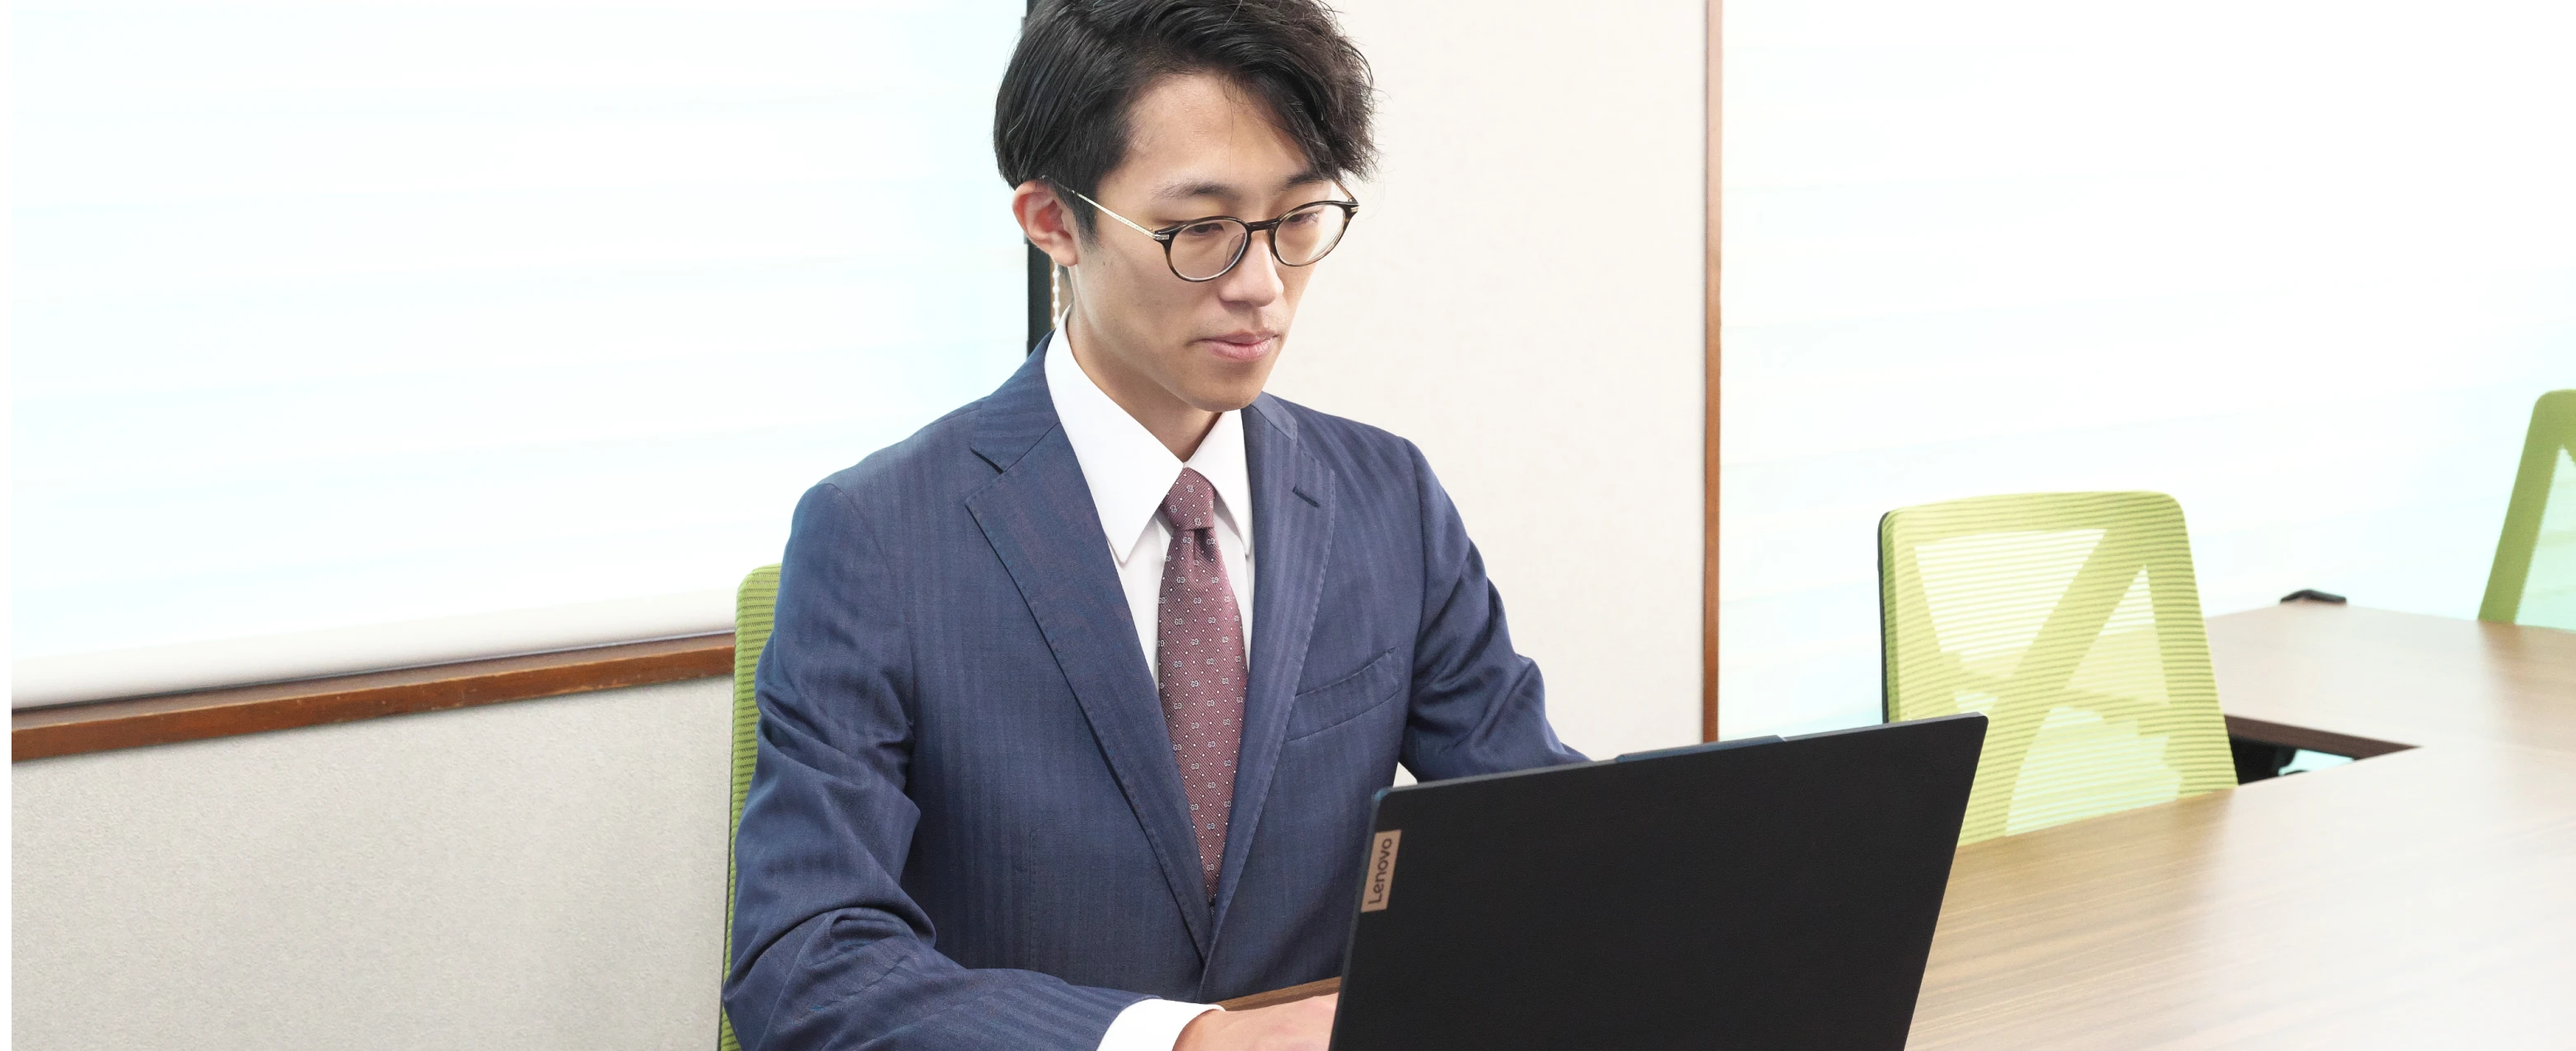
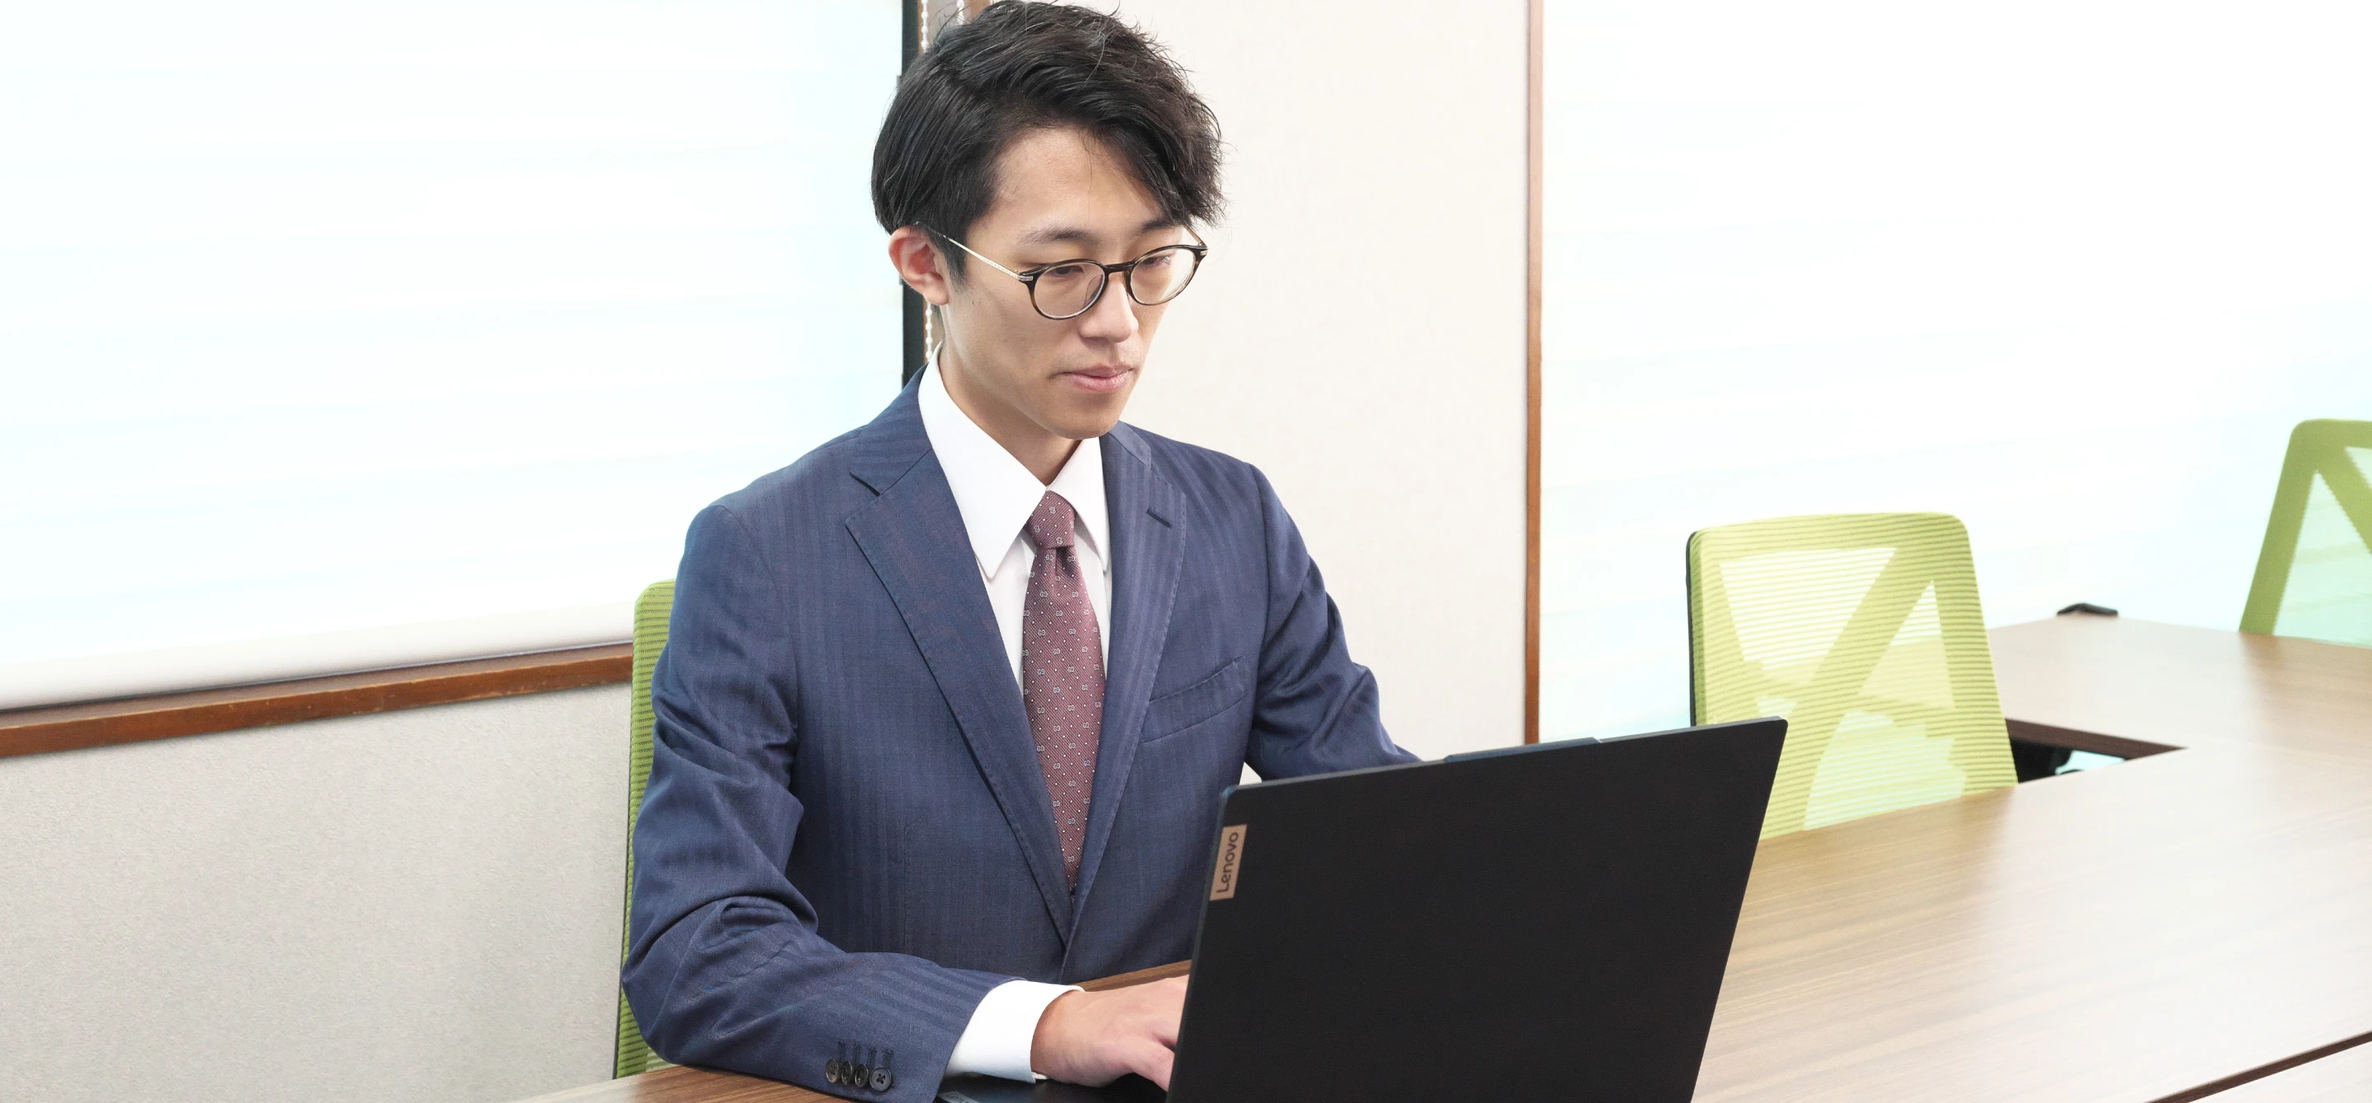
seo・リファクタリング

Changed region(s): [[0.0, 0.0, 1.0, 1.0], [0.9062, 0.9162, 1.0, 1.0]]

diff --git a/src/modules/Kv.tsx b/src/modules/Kv.tsx
@@ -13,7 +13,7 @@ import kvSpImg3 from '../../public/image/top/fv_3_sp.webp';
 import { Lato } from 'next/font/google';
 
 const lato = Lato({
-  weight: ['400', '700', '900'],
+  weight: ['400'],
   subsets: ['latin'],
   display: 'swap',
 });
@@ -26,15 +26,30 @@ export type KvSlide = {
 };
 
 export const KV_PC_SLIDES: KvSlide[] = [
-  { src: kvPcImg1, alt: 'スライド1', width: 3127, height: 1277 },
-  { src: kvPcImg2, alt: 'スライド2', width: 3127, height: 1277 },
-  { src: kvPcImg3, alt: 'スライド3', width: 3127, height: 1277 },
+  {
+    src: kvPcImg1,
+    alt: 'プログラミングを学生に教えている様子',
+    width: 3127,
+    height: 1277,
+  },
+  {
+    src: kvPcImg2,
+    alt: 'パソコンの画面を指さしながら、プログラミングを教えている様子',
+    width: 3127,
+    height: 1277,
+  },
+  {
+    src: kvPcImg3,
+    alt: 'パソコンを操作している様子',
+    width: 3127,
+    height: 1277,
+  },
 ];
 
 export const KV_SP_SLIDES: KvSlide[] = [
-  { src: kvSpImg1, alt: 'スライド1', width: 878, height: 1319 },
-  { src: kvSpImg2, alt: 'スライド2', width: 878, height: 1319 },
-  { src: kvSpImg3, alt: 'スライド3', width: 878, height: 1319 },
+  { src: kvSpImg1, alt: '', width: 878, height: 1319 },
+  { src: kvSpImg2, alt: '', width: 878, height: 1319 },
+  { src: kvSpImg3, alt: '', width: 878, height: 1319 },
 ];
 
 const SLIDE_INTERVAL_MS = 5000;
@@ -148,6 +163,10 @@ const sxStyles = {
     textAlign: 'left',
     color: '#fff',
     m: 0,
+    h1: {
+      display: 'flex',
+      flexDirection: 'column',
+    },
   },
   line1: {
     fontSize: 'clamp(18px, 2.26vw, 31px)',
@@ -156,6 +175,7 @@ const sxStyles = {
     fontFeatureSettings: '"palt"',
     letterSpacing: '0.03em',
     overflow: 'hidden',
+    display: 'inline-block',
   },
   line2: {
     fontSize: 'clamp(43px, 4.96vw, 68px)',
@@ -165,6 +185,7 @@ const sxStyles = {
     fontFeatureSettings: '"palt"',
     letterSpacing: '0.03em',
     overflow: 'hidden',
+    display: 'inline-block',
     '@media screen and (max-width:768px)': {
       mt: '6px',
     },
@@ -224,29 +245,32 @@ const sxStyles = {
 const KvMainCopy = () => {
   return (
     <Box sx={sxStyles.copyWrap}>
-      <Box component="h1" sx={sxStyles.textBlock}>
-        <Typography component="p" sx={sxStyles.line1}>
-          <Box
-            component="span"
-            sx={[sxStyles.copyLineText, sxStyles.copyLineText1]}
-          >
-            社会のコミュニケーションを
-          </Box>
-        </Typography>
-        <Typography component="p" sx={sxStyles.line2}>
-          <Box
-            component="span"
-            sx={[
-              sxStyles.copyLineText,
-              sxStyles.copyLineText2,
-              sxStyles.pcOnlyLine,
-            ]}
-          >
-            ITの力でもっと活発に
-          </Box>
+      <Box sx={sxStyles.textBlock}>
+        <Typography component="h1">
+          <Typography component="span" sx={sxStyles.line1}>
+            <Box
+              component="span"
+              sx={[sxStyles.copyLineText, sxStyles.copyLineText1]}
+            >
+              社会のコミュニケーションを
+            </Box>
+          </Typography>
+          <Typography component="span" sx={sxStyles.line2}>
+            <Box
+              component="span"
+              sx={[
+                sxStyles.copyLineText,
+                sxStyles.copyLineText2,
+                sxStyles.pcOnlyLine,
+              ]}
+            >
+              ITの力でもっと活発に
+            </Box>
+          </Typography>
           <Box
             component="span"
             sx={[sxStyles.copyLineMask, sxStyles.spOnlyLine]}
+            aria-hidden="true"
           >
             <Box
               component="span"
@@ -258,6 +282,7 @@ const KvMainCopy = () => {
           <Box
             component="span"
             sx={[sxStyles.copyLineMask, sxStyles.spOnlyLine]}
+            aria-hidden="true"
           >
             <Box
               component="span"

diff --git a/src/modules/Business.tsx b/src/modules/Business.tsx
@@ -11,7 +11,7 @@ import FadeInOnView from '../components/FadeInOnView';
 import { Lato } from 'next/font/google';
 
 const lato = Lato({
-  weight: ['400', '700', '900'],
+  weight: ['900'],
   subsets: ['latin'],
   display: 'swap',
 });
@@ -154,8 +154,24 @@ const sxStyles = {
       boxSizing: 'border-box',
       position: 'relative',
       overflow: 'hidden',
-      transition:
-        'background-color 0.35s ease, border-color 0.35s ease, box-shadow 0.35s ease, padding-left 0.35s ease',
+      transition: 'color 0.35s ease',
+      '&::before': {
+        content: '""',
+        position: 'absolute',
+        left: 0,
+        right: 0,
+        bottom: 0,
+        height: '1px',
+        backgroundColor: '#fff',
+        transform: 'scaleX(0)',
+        transformOrigin: 'left center',
+        transition: 'transform 0.35s ease',
+        zIndex: 1,
+      },
+      '& > *': {
+        position: 'relative',
+        zIndex: 2,
+      },
       '& > svg': {
         flexShrink: 0,
       },
@@ -165,10 +181,8 @@ const sxStyles = {
         columnGap: '20px',
         paddingBlock: '24px',
       },
-      '&:hover': {
-        backgroundColor: 'rgba(255, 255, 255, 0.1)',
-        borderBottomColor: 'rgba(255, 255, 255, 0.58)',
-        boxShadow: '0 16px 32px rgba(0, 0, 0, 0.12)',
+      '&:hover::before': {
+        transform: 'scaleX(1)',
       },
     },
   },
@@ -227,18 +241,14 @@ const Business = () => {
       <Box component="section" sx={sxStyles.wrap}>
         <FadeInOnView>
           <Box component="section" sx={sxStyles.box}>
-            <Box sx={sxStyles.headingBox}>
-              <Typography variant="h2" sx={sxStyles.heading}>
+            <Typography component="h2" sx={sxStyles.headingBox}>
+              <Typography component="span" sx={sxStyles.heading}>
                 Service
               </Typography>
-              <Typography
-                variant="caption"
-                component="span"
-                sx={sxStyles.caption}
-              >
+              <Typography component="span" sx={sxStyles.caption}>
                 事業内容
               </Typography>
-            </Box>
+            </Typography>
             <Typography component="p" sx={sxStyles.text}>
               高い技術力を強みに、エンジニアリングに関する事業を運営しております。
             </Typography>

diff --git a/src/modules/Company.tsx b/src/modules/Company.tsx
@@ -21,7 +21,7 @@ const rows = [
 ];
 
 const lato = Lato({
-  weight: ['400', '700', '900'],
+  weight: ['900'],
   subsets: ['latin'],
   display: 'swap',
 });
@@ -99,21 +99,21 @@ const Company = () => {
   return (
     <Box component="section" sx={sxStyles.section}>
       <FadeInOnView>
-        <Box sx={sxStyles.headingBox}>
-          <Typography variant="h2" sx={sxStyles.heading}>
+        <Typography component="h2" sx={sxStyles.headingBox}>
+          <Typography component="span" sx={sxStyles.heading}>
             Company
           </Typography>
-          <Typography variant="caption" component="span" sx={sxStyles.caption}>
+          <Typography component="span" sx={sxStyles.caption}>
             会社情報
           </Typography>
-        </Box>
+        </Typography>
       </FadeInOnView>
       <TableContainer sx={sxStyles.tableContainer}>
         <Table size="medium">
           <TableBody>
             {rows.map((row) => (
               <TableRow key={row.title} sx={sxStyles.tableRow}>
-                <TableCell align="left" sx={sxStyles.titleCell}>
+                <TableCell align="left" sx={sxStyles.titleCell} component="th">
                   {row.title}
                 </TableCell>
                 <TableCell align="left" sx={sxStyles.descriptionCell}>

diff --git a/src/modules/Contact.tsx b/src/modules/Contact.tsx
@@ -7,7 +7,7 @@ import { CommonLink } from '../components/CommonLink';
 import FadeInOnView from '../components/FadeInOnView';
 
 const lato = Lato({
-  weight: ['400', '700', '900'],
+  weight: ['900'],
   subsets: ['latin'],
   display: 'swap',
 });
@@ -62,6 +62,7 @@ const sxStyles = {
       width: '100%',
     },
     '> a': {
+      width: '100%',
       position: 'relative',
       overflow: 'hidden',
       borderRadius: '6px',
@@ -80,7 +81,6 @@ const sxStyles = {
       transition: 'background-color 0.35s ease, color 0.35s ease',
       '@media screen and (max-width:768px)': {
         px: '16px',
-        width: '100%',
       },
       '&:hover': {
         backgroundColor: '#fff',
@@ -100,10 +100,10 @@ const Contact = () => {
       <FadeInOnView>
         <Box sx={sxStyles.wrap}>
           <Box sx={sxStyles.headingContainer}>
-            <Typography variant="h2" sx={sxStyles.heading}>
+            <Typography component="h2" sx={sxStyles.heading}>
               Contact
             </Typography>
-            <Typography variant="body2" sx={sxStyles.text}>
+            <Typography component="p" sx={sxStyles.text}>
               お問い合わせはこちらよりお願いいたします
             </Typography>
           </Box>

diff --git a/src/modules/Recuritment.tsx b/src/modules/Recuritment.tsx
@@ -6,7 +6,7 @@ import Image from 'next/image';
 import FadeInOnView from '../components/FadeInOnView';
 
 const lato = Lato({
-  weight: ['400', '700', '900'],
+  weight: ['900'],
   subsets: ['latin'],
   display: 'swap',
 });
@@ -78,18 +78,14 @@ const Recruitment = () => {
         />
         <Box>
           <FadeInOnView>
-            <Box sx={sxStyles.headingBox}>
-              <Typography variant="h2" sx={sxStyles.heading}>
+            <Typography component="h2" sx={sxStyles.headingBox}>
+              <Typography component="span" sx={sxStyles.heading}>
                 Recruit
               </Typography>
-              <Typography
-                variant="caption"
-                component="span"
-                sx={sxStyles.caption}
-              >
+              <Typography component="span" sx={sxStyles.caption}>
                 採用情報
               </Typography>
-            </Box>
+            </Typography>
           </FadeInOnView>
           <Typography variant="caption" component="p" sx={sxStyles.text}>
             現在、募集は行っておりません。
